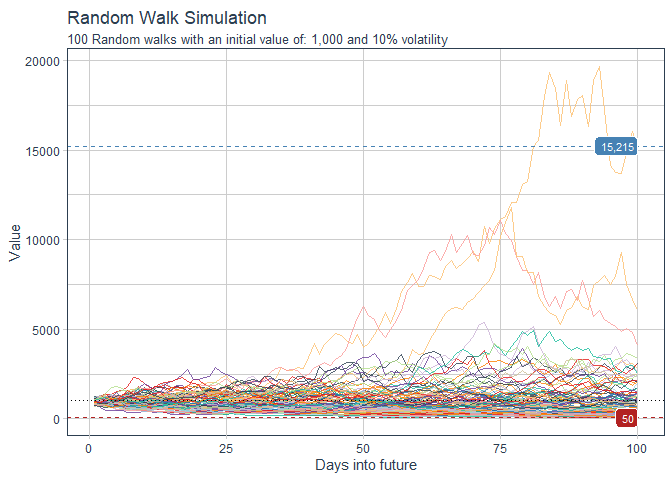
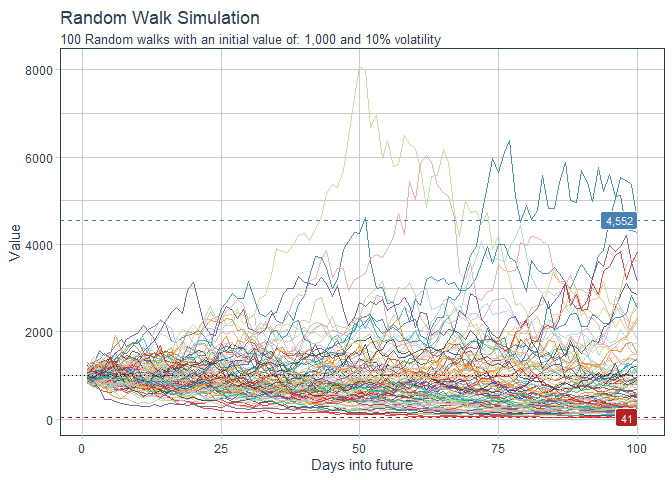
update vignettes

diff --git a/docs/articles/getting-started.html b/docs/articles/getting-started.html
@@ -91,7 +91,10 @@
   <div class="col-md-9 contents">
     <div class="page-header toc-ignore">
       <h1 data-toc-skip>Getting Started with healthyR.ts</h1>
+            <h3 class="subtitle">A Quick Introduction</h3>
+                        <h4 class="author">Steven P. Sanderson II, MPH</h4>
             
+            <h4 class="date">2020-12-06</h4>
       
       <small class="dont-index">Source: <a href="https://github.com/spsanderson/healthyR.ts/blob/master/vignettes/getting-started.Rmd"><code>vignettes/getting-started.Rmd</code></a></small>
       <div class="hidden name"><code>getting-started.Rmd</code></div>
@@ -100,8 +103,96 @@
 
     
     
+<p>Lets load in the libraries</p>
 <div class="sourceCode" id="cb1"><pre class="downlit sourceCode r">
-<code class="sourceCode R"><span class="kw"><a href="https://rdrr.io/r/base/library.html">library</a></span><span class="op">(</span><span class="va"><a href="https://github.com/spsanderson/healthyR.ts">healthyR.ts</a></span><span class="op">)</span></code></pre></div>
+<code class="sourceCode R"><span class="kw"><a href="https://rdrr.io/r/base/library.html">library</a></span><span class="op">(</span><span class="va"><a href="https://github.com/spsanderson/healthyR.ts">healthyR.ts</a></span><span class="op">)</span>
+<span class="kw"><a href="https://rdrr.io/r/base/library.html">library</a></span><span class="op">(</span><span class="va"><a href="http://ggplot2.tidyverse.org">ggplot2</a></span><span class="op">)</span>
+<span class="kw"><a href="https://rdrr.io/r/base/library.html">library</a></span><span class="op">(</span><span class="va"><a href="https://dplyr.tidyverse.org">dplyr</a></span><span class="op">)</span></code></pre></div>
+<p>Lets generage data and take a look</p>
+<div class="sourceCode" id="cb2"><pre class="downlit sourceCode r">
+<code class="sourceCode R"><span class="va">df</span> <span class="op">&lt;-</span> <span class="fu"><a href="../reference/ts_random_walk.html">ts_random_walk</a></span><span class="op">(</span><span class="op">)</span>
+<span class="fu"><a href="https://rdrr.io/r/utils/head.html">head</a></span><span class="op">(</span><span class="va">df</span><span class="op">)</span>
+<span class="co">#&gt; # A tibble: 6 x 4</span>
+<span class="co">#&gt;     run     x        y cum_y</span>
+<span class="co">#&gt;   &lt;dbl&gt; &lt;dbl&gt;    &lt;dbl&gt; &lt;dbl&gt;</span>
+<span class="co">#&gt; 1     1     1  0.0844  1084.</span>
+<span class="co">#&gt; 2     1     2  0.0106  1096.</span>
+<span class="co">#&gt; 3     1     3  0.0237  1122.</span>
+<span class="co">#&gt; 4     1     4  0.0809  1213.</span>
+<span class="co">#&gt; 5     1     5  0.0357  1256.</span>
+<span class="co">#&gt; 6     1     6 -0.00752 1246.</span>
+<span class="fu"><a href="https://tibble.tidyverse.org/reference/glimpse.html">glimpse</a></span><span class="op">(</span><span class="va">df</span><span class="op">)</span>
+<span class="co">#&gt; Rows: 10,000</span>
+<span class="co">#&gt; Columns: 4</span>
+<span class="co">#&gt; $ run   &lt;dbl&gt; 1, 1, 1, 1, 1, 1, 1, 1, 1, 1, 1, 1, 1, 1, 1, 1, 1, 1, 1, 1, 1...</span>
+<span class="co">#&gt; $ x     &lt;dbl&gt; 1, 2, 3, 4, 5, 6, 7, 8, 9, 10, 11, 12, 13, 14, 15, 16, 17, 18...</span>
+<span class="co">#&gt; $ y     &lt;dbl&gt; 0.084397624, 0.010623071, 0.023657801, 0.080917632, 0.0356955...</span>
+<span class="co">#&gt; $ cum_y &lt;dbl&gt; 1084.3976, 1095.9173, 1121.8442, 1212.6212, 1255.9064, 1246.4...</span></code></pre></div>
+<p>Now that the data has been generated, lets take a look at it.</p>
+<div class="sourceCode" id="cb3"><pre class="downlit sourceCode r">
+<code class="sourceCode R"><span class="va">df</span> <span class="op">%&gt;%</span>
+   <span class="fu"><a href="https://ggplot2.tidyverse.org/reference/ggplot.html">ggplot</a></span><span class="op">(</span>
+       mapping <span class="op">=</span> <span class="fu"><a href="https://ggplot2.tidyverse.org/reference/aes.html">aes</a></span><span class="op">(</span>
+           x <span class="op">=</span> <span class="va">x</span>
+           , y <span class="op">=</span> <span class="va">cum_y</span>
+           , color <span class="op">=</span> <span class="fu"><a href="https://rdrr.io/r/base/factor.html">factor</a></span><span class="op">(</span><span class="va">run</span><span class="op">)</span>
+           , group <span class="op">=</span> <span class="fu"><a href="https://rdrr.io/r/base/factor.html">factor</a></span><span class="op">(</span><span class="va">run</span><span class="op">)</span>
+        <span class="op">)</span>
+    <span class="op">)</span> <span class="op">+</span>
+    <span class="fu"><a href="https://ggplot2.tidyverse.org/reference/geom_path.html">geom_line</a></span><span class="op">(</span>alpha <span class="op">=</span> <span class="fl">0.8</span><span class="op">)</span> <span class="op">+</span>
+    <span class="fu"><a href="../reference/ts_random_walk_ggplot_layers.html">ts_random_walk_ggplot_layers</a></span><span class="op">(</span><span class="va">df</span><span class="op">)</span></code></pre></div>
+<p><img src="getting-started_files/figure-html/ts_random_walk_ggplot_layers-1.png" width="95%" style="display: block; margin: auto;"></p>
+<p>That is still pretty noisy, so lets see this in a different way. Lets clear this up a bit to make it easier to see the full range of the possible volatility of the random walks.</p>
+<div class="sourceCode" id="cb4"><pre class="downlit sourceCode r">
+<code class="sourceCode R"><span class="kw"><a href="https://rdrr.io/r/base/library.html">library</a></span><span class="op">(</span><span class="va"><a href="https://dplyr.tidyverse.org">dplyr</a></span><span class="op">)</span>
+<span class="kw"><a href="https://rdrr.io/r/base/library.html">library</a></span><span class="op">(</span><span class="va"><a href="http://ggplot2.tidyverse.org">ggplot2</a></span><span class="op">)</span>
+<span class="kw"><a href="https://rdrr.io/r/base/library.html">library</a></span><span class="op">(</span><span class="va"><a href="https://github.com/business-science/tidyquant">tidyquant</a></span><span class="op">)</span>
+
+<span class="va">df</span> <span class="op">%&gt;%</span>
+    <span class="fu"><a href="https://dplyr.tidyverse.org/reference/group_by.html">group_by</a></span><span class="op">(</span><span class="va">x</span><span class="op">)</span> <span class="op">%&gt;%</span>
+    <span class="fu"><a href="https://dplyr.tidyverse.org/reference/summarise.html">summarise</a></span><span class="op">(</span>
+        min_y <span class="op">=</span> <span class="fu"><a href="https://rdrr.io/r/base/Extremes.html">min</a></span><span class="op">(</span><span class="va">cum_y</span><span class="op">)</span>,
+        max_y <span class="op">=</span> <span class="fu"><a href="https://rdrr.io/r/base/Extremes.html">max</a></span><span class="op">(</span><span class="va">cum_y</span><span class="op">)</span>
+    <span class="op">)</span> <span class="op">%&gt;%</span>
+    <span class="fu"><a href="https://ggplot2.tidyverse.org/reference/ggplot.html">ggplot</a></span><span class="op">(</span>
+        <span class="fu"><a href="https://ggplot2.tidyverse.org/reference/aes.html">aes</a></span><span class="op">(</span>x <span class="op">=</span> <span class="va">x</span><span class="op">)</span>
+    <span class="op">)</span> <span class="op">+</span>
+    <span class="fu"><a href="https://ggplot2.tidyverse.org/reference/geom_path.html">geom_line</a></span><span class="op">(</span><span class="fu"><a href="https://ggplot2.tidyverse.org/reference/aes.html">aes</a></span><span class="op">(</span>y <span class="op">=</span> <span class="va">max_y</span><span class="op">)</span>, color <span class="op">=</span> <span class="st">"steelblue"</span><span class="op">)</span> <span class="op">+</span>
+    <span class="fu"><a href="https://ggplot2.tidyverse.org/reference/geom_path.html">geom_line</a></span><span class="op">(</span><span class="fu"><a href="https://ggplot2.tidyverse.org/reference/aes.html">aes</a></span><span class="op">(</span>y <span class="op">=</span> <span class="va">min_y</span><span class="op">)</span>, color <span class="op">=</span> <span class="st">"firebrick"</span><span class="op">)</span> <span class="op">+</span>
+    <span class="fu"><a href="https://ggplot2.tidyverse.org/reference/geom_ribbon.html">geom_ribbon</a></span><span class="op">(</span><span class="fu"><a href="https://ggplot2.tidyverse.org/reference/aes.html">aes</a></span><span class="op">(</span>ymin <span class="op">=</span> <span class="va">min_y</span>, ymax <span class="op">=</span> <span class="va">max_y</span><span class="op">)</span>, alpha <span class="op">=</span> <span class="fl">0.2</span><span class="op">)</span> <span class="op">+</span>
+    <span class="fu"><a href="../reference/ts_random_walk_ggplot_layers.html">ts_random_walk_ggplot_layers</a></span><span class="op">(</span><span class="va">df</span><span class="op">)</span></code></pre></div>
+<p><img src="getting-started_files/figure-html/unnamed-chunk-2-1.png" width="95%" style="display: block; margin: auto;"></p>
+<p>Lets look at volatility from several different percentages.</p>
+<div class="sourceCode" id="cb5"><pre class="downlit sourceCode r">
+<code class="sourceCode R">
+<span class="co"># Random Walk for volatility range 1-15%</span>
+<span class="va">df1</span> <span class="op">&lt;-</span> <span class="fu"><a href="../reference/ts_random_walk.html">ts_random_walk</a></span><span class="op">(</span>.sd <span class="op">=</span> <span class="fl">0.01</span><span class="op">)</span>
+<span class="va">df2</span> <span class="op">&lt;-</span> <span class="fu"><a href="../reference/ts_random_walk.html">ts_random_walk</a></span><span class="op">(</span>.sd <span class="op">=</span> <span class="fl">0.05</span><span class="op">)</span>
+<span class="va">df3</span> <span class="op">&lt;-</span> <span class="fu"><a href="../reference/ts_random_walk.html">ts_random_walk</a></span><span class="op">(</span>.sd <span class="op">=</span> <span class="fl">0.10</span><span class="op">)</span>
+<span class="va">df4</span> <span class="op">&lt;-</span> <span class="fu"><a href="../reference/ts_random_walk.html">ts_random_walk</a></span><span class="op">(</span>.sd <span class="op">=</span> <span class="fl">0.15</span><span class="op">)</span>
+
+<span class="co"># Merge data frames into one</span>
+<span class="va">df_merged</span> <span class="op">&lt;-</span> <span class="fu">dplyr</span><span class="fu">::</span><span class="fu"><a href="https://dplyr.tidyverse.org/reference/bind.html">bind_rows</a></span><span class="op">(</span>
+    <span class="va">df1</span> <span class="op">%&gt;%</span> <span class="fu"><a href="https://dplyr.tidyverse.org/reference/mutate.html">mutate</a></span><span class="op">(</span>ver <span class="op">=</span> <span class="st">"A) Vol 1%"</span><span class="op">)</span>,
+    <span class="va">df2</span> <span class="op">%&gt;%</span> <span class="fu"><a href="https://dplyr.tidyverse.org/reference/mutate.html">mutate</a></span><span class="op">(</span>ver <span class="op">=</span> <span class="st">"B) Vol 5%"</span><span class="op">)</span>,
+    <span class="va">df3</span> <span class="op">%&gt;%</span> <span class="fu"><a href="https://dplyr.tidyverse.org/reference/mutate.html">mutate</a></span><span class="op">(</span>ver <span class="op">=</span> <span class="st">"C) Vol 10%"</span><span class="op">)</span>,
+    <span class="va">df4</span> <span class="op">%&gt;%</span> <span class="fu"><a href="https://dplyr.tidyverse.org/reference/mutate.html">mutate</a></span><span class="op">(</span>ver <span class="op">=</span> <span class="st">"D) Vol 15%"</span><span class="op">)</span>
+<span class="op">)</span>
+
+<span class="co"># Plot range between minimum and maximum values</span>
+<span class="va">df_merged</span> <span class="op">%&gt;%</span>
+    <span class="fu"><a href="https://ggplot2.tidyverse.org/reference/ggplot.html">ggplot</a></span><span class="op">(</span><span class="fu"><a href="https://ggplot2.tidyverse.org/reference/aes.html">aes</a></span><span class="op">(</span>
+        x <span class="op">=</span> <span class="va">x</span>, y <span class="op">=</span> <span class="va">cum_y</span>,
+        color <span class="op">=</span> <span class="fu"><a href="https://rdrr.io/r/base/factor.html">factor</a></span><span class="op">(</span><span class="va">run</span><span class="op">)</span>, group <span class="op">=</span> <span class="fu"><a href="https://rdrr.io/r/base/factor.html">factor</a></span><span class="op">(</span><span class="va">run</span><span class="op">)</span>
+    <span class="op">)</span><span class="op">)</span> <span class="op">+</span>
+    <span class="fu"><a href="https://ggplot2.tidyverse.org/reference/geom_path.html">geom_line</a></span><span class="op">(</span>alpha <span class="op">=</span> <span class="fl">0.8</span><span class="op">)</span> <span class="op">+</span>
+    <span class="fu"><a href="https://ggplot2.tidyverse.org/reference/labs.html">labs</a></span><span class="op">(</span>title <span class="op">=</span> <span class="st">""</span>, x <span class="op">=</span> <span class="st">""</span>, y <span class="op">=</span> <span class="st">""</span><span class="op">)</span> <span class="op">+</span>
+    <span class="fu"><a href="https://ggplot2.tidyverse.org/reference/facet_wrap.html">facet_wrap</a></span><span class="op">(</span><span class="op">~</span><span class="va">ver</span>, scales <span class="op">=</span> <span class="st">"free"</span><span class="op">)</span> <span class="op">+</span>
+    <span class="fu"><a href="https://ggplot2.tidyverse.org/reference/scale_continuous.html">scale_y_continuous</a></span><span class="op">(</span>labels <span class="op">=</span> <span class="fu">scales</span><span class="fu">::</span><span class="va"><a href="https://scales.r-lib.org//reference/label_number.html">comma</a></span><span class="op">)</span> <span class="op">+</span>
+    <span class="fu"><a href="https://rdrr.io/pkg/tidyquant/man/scale_manual.html">scale_colour_tq</a></span><span class="op">(</span><span class="op">)</span> <span class="op">+</span>
+    <span class="fu"><a href="https://rdrr.io/pkg/tidyquant/man/theme_tq.html">theme_tq</a></span><span class="op">(</span><span class="op">)</span> <span class="op">+</span>
+    <span class="fu"><a href="https://ggplot2.tidyverse.org/reference/theme.html">theme</a></span><span class="op">(</span>legend.position <span class="op">=</span> <span class="st">"none"</span><span class="op">)</span></code></pre></div>
+<p><img src="getting-started_files/figure-html/unnamed-chunk-3-1.png" width="95%" style="display: block; margin: auto;"></p>
   </div>
 
   <div class="col-md-3 hidden-xs hidden-sm" id="pkgdown-sidebar">

diff --git a/docs/index.html b/docs/index.html
@@ -109,7 +109,7 @@
 <div id="example" class="section level2">
 <h2 class="hasAnchor">
 <a href="#example" class="anchor"></a>Example</h2>
-<p>This is a basic example which shows you how to solve a common problem:</p>
+<p>This is a basic example which shows you how to generate random walk data.</p>
 <div class="sourceCode" id="cb3"><pre class="downlit sourceCode r">
 <code class="sourceCode R"><span class="kw"><a href="https://rdrr.io/r/base/library.html">library</a></span><span class="op">(</span><span class="va"><a href="https://github.com/spsanderson/healthyR.ts">healthyR.ts</a></span><span class="op">)</span>
 <span class="kw"><a href="https://rdrr.io/r/base/library.html">library</a></span><span class="op">(</span><span class="va"><a href="http://ggplot2.tidyverse.org">ggplot2</a></span><span class="op">)</span>
@@ -118,15 +118,15 @@
 
 <span class="fu"><a href="https://rdrr.io/r/utils/head.html">head</a></span><span class="op">(</span><span class="va">df</span><span class="op">)</span>
 <span class="co">#&gt; # A tibble: 6 x 4</span>
-<span class="co">#&gt;     run     x        y cum_y</span>
-<span class="co">#&gt;   &lt;dbl&gt; &lt;dbl&gt;    &lt;dbl&gt; &lt;dbl&gt;</span>
-<span class="co">#&gt; 1     1     1 -0.135    865.</span>
-<span class="co">#&gt; 2     1     2 -0.00989  857.</span>
-<span class="co">#&gt; 3     1     3 -0.110    762.</span>
-<span class="co">#&gt; 4     1     4  0.165    888.</span>
-<span class="co">#&gt; 5     1     5  0.0564   938.</span>
-<span class="co">#&gt; 6     1     6  0.0581   993.</span></code></pre></div>
-<p>Now that the data hs been generated, lets take a look at it.</p>
+<span class="co">#&gt;     run     x       y cum_y</span>
+<span class="co">#&gt;   &lt;dbl&gt; &lt;dbl&gt;   &lt;dbl&gt; &lt;dbl&gt;</span>
+<span class="co">#&gt; 1     1     1 -0.0747  925.</span>
+<span class="co">#&gt; 2     1     2 -0.107   826.</span>
+<span class="co">#&gt; 3     1     3  0.0267  848.</span>
+<span class="co">#&gt; 4     1     4 -0.0332  820.</span>
+<span class="co">#&gt; 5     1     5  0.0106  829.</span>
+<span class="co">#&gt; 6     1     6  0.0199  845.</span></code></pre></div>
+<p>Now that the data has been generated, lets take a look at it.</p>
 <div class="sourceCode" id="cb4"><pre class="downlit sourceCode r">
 <code class="sourceCode R"><span class="va">df</span> <span class="op">%&gt;%</span>
    <span class="fu"><a href="https://ggplot2.tidyverse.org/reference/ggplot.html">ggplot</a></span><span class="op">(</span>
@@ -138,11 +138,27 @@
         <span class="op">)</span>
     <span class="op">)</span> <span class="op">+</span>
     <span class="fu"><a href="https://ggplot2.tidyverse.org/reference/geom_path.html">geom_line</a></span><span class="op">(</span>alpha <span class="op">=</span> <span class="fl">0.8</span><span class="op">)</span> <span class="op">+</span>
-    <span class="fu"><a href="reference/ts_random_walk_ggplot_layers.html">ts_random_walk_ggplot_layers</a></span><span class="op">(</span><span class="va">df</span><span class="op">)</span>
-<span class="co">#&gt; Registered S3 method overwritten by 'quantmod':</span>
-<span class="co">#&gt;   method            from</span>
-<span class="co">#&gt;   as.zoo.data.frame zoo</span></code></pre></div>
+    <span class="fu"><a href="reference/ts_random_walk_ggplot_layers.html">ts_random_walk_ggplot_layers</a></span><span class="op">(</span><span class="va">df</span><span class="op">)</span></code></pre></div>
 <p><img src="reference/figures/README-ts_random_walk_ggplot_layers-1.png" width="100%"></p>
+<p>That is still pretty noisy, so lets see this in a different way. Lets clear this up a bit to make it easier to see the full range of the possible volatility of the random walks.</p>
+<div class="sourceCode" id="cb5"><pre class="downlit sourceCode r">
+<code class="sourceCode R"><span class="kw"><a href="https://rdrr.io/r/base/library.html">library</a></span><span class="op">(</span><span class="va"><a href="https://dplyr.tidyverse.org">dplyr</a></span><span class="op">)</span>
+<span class="kw"><a href="https://rdrr.io/r/base/library.html">library</a></span><span class="op">(</span><span class="va"><a href="http://ggplot2.tidyverse.org">ggplot2</a></span><span class="op">)</span>
+
+<span class="va">df</span> <span class="op">%&gt;%</span>
+    <span class="fu"><a href="https://dplyr.tidyverse.org/reference/group_by.html">group_by</a></span><span class="op">(</span><span class="va">x</span><span class="op">)</span> <span class="op">%&gt;%</span>
+    <span class="fu"><a href="https://dplyr.tidyverse.org/reference/summarise.html">summarise</a></span><span class="op">(</span>
+        min_y <span class="op">=</span> <span class="fu"><a href="https://rdrr.io/r/base/Extremes.html">min</a></span><span class="op">(</span><span class="va">cum_y</span><span class="op">)</span>,
+        max_y <span class="op">=</span> <span class="fu"><a href="https://rdrr.io/r/base/Extremes.html">max</a></span><span class="op">(</span><span class="va">cum_y</span><span class="op">)</span>
+    <span class="op">)</span> <span class="op">%&gt;%</span>
+    <span class="fu"><a href="https://ggplot2.tidyverse.org/reference/ggplot.html">ggplot</a></span><span class="op">(</span>
+        <span class="fu"><a href="https://ggplot2.tidyverse.org/reference/aes.html">aes</a></span><span class="op">(</span>x <span class="op">=</span> <span class="va">x</span><span class="op">)</span>
+    <span class="op">)</span> <span class="op">+</span>
+    <span class="fu"><a href="https://ggplot2.tidyverse.org/reference/geom_path.html">geom_line</a></span><span class="op">(</span><span class="fu"><a href="https://ggplot2.tidyverse.org/reference/aes.html">aes</a></span><span class="op">(</span>y <span class="op">=</span> <span class="va">max_y</span><span class="op">)</span>, color <span class="op">=</span> <span class="st">"steelblue"</span><span class="op">)</span> <span class="op">+</span>
+    <span class="fu"><a href="https://ggplot2.tidyverse.org/reference/geom_path.html">geom_line</a></span><span class="op">(</span><span class="fu"><a href="https://ggplot2.tidyverse.org/reference/aes.html">aes</a></span><span class="op">(</span>y <span class="op">=</span> <span class="va">min_y</span><span class="op">)</span>, color <span class="op">=</span> <span class="st">"firebrick"</span><span class="op">)</span> <span class="op">+</span>
+    <span class="fu"><a href="https://ggplot2.tidyverse.org/reference/geom_ribbon.html">geom_ribbon</a></span><span class="op">(</span><span class="fu"><a href="https://ggplot2.tidyverse.org/reference/aes.html">aes</a></span><span class="op">(</span>ymin <span class="op">=</span> <span class="va">min_y</span>, ymax <span class="op">=</span> <span class="va">max_y</span><span class="op">)</span>, alpha <span class="op">=</span> <span class="fl">0.2</span><span class="op">)</span> <span class="op">+</span>
+    <span class="fu"><a href="reference/ts_random_walk_ggplot_layers.html">ts_random_walk_ggplot_layers</a></span><span class="op">(</span><span class="va">df</span><span class="op">)</span></code></pre></div>
+<p><img src="reference/figures/README-unnamed-chunk-2-1.png" width="100%"></p>
 </div>
 </div>
   </div>

diff --git a/README.md b/README.md
@@ -30,7 +30,8 @@ devtools::install_github("spsanderson/healthyR.ts")
 
 ## Example
 
-This is a basic example which shows you how to solve a common problem:
+This is a basic example which shows you how to generate random walk
+data.
 
 ``` r
 library(healthyR.ts)
@@ -40,17 +41,17 @@ df <- ts_random_walk()
 
 head(df)
 #> # A tibble: 6 x 4
-#>     run     x        y cum_y
-#>   <dbl> <dbl>    <dbl> <dbl>
-#> 1     1     1 -0.135    865.
-#> 2     1     2 -0.00989  857.
-#> 3     1     3 -0.110    762.
-#> 4     1     4  0.165    888.
-#> 5     1     5  0.0564   938.
-#> 6     1     6  0.0581   993.
+#>     run     x       y cum_y
+#>   <dbl> <dbl>   <dbl> <dbl>
+#> 1     1     1 -0.0747  925.
+#> 2     1     2 -0.107   826.
+#> 3     1     3  0.0267  848.
+#> 4     1     4 -0.0332  820.
+#> 5     1     5  0.0106  829.
+#> 6     1     6  0.0199  845.
 ```
 
-Now that the data hs been generated, lets take a look at it.
+Now that the data has been generated, lets take a look at it.
 
 ``` r
 df %>%
@@ -64,9 +65,31 @@ df %>%
     ) +
     geom_line(alpha = 0.8) +
     ts_random_walk_ggplot_layers(df)
-#> Registered S3 method overwritten by 'quantmod':
-#>   method            from
-#>   as.zoo.data.frame zoo
 ```
 
 <img src="man/figures/README-ts_random_walk_ggplot_layers-1.png" width="100%" />
+
+That is still pretty noisy, so lets see this in a different way. Lets
+clear this up a bit to make it easier to see the full range of the
+possible volatility of the random walks.
+
+``` r
+library(dplyr)
+library(ggplot2)
+
+df %>%
+    group_by(x) %>%
+    summarise(
+        min_y = min(cum_y),
+        max_y = max(cum_y)
+    ) %>%
+    ggplot(
+        aes(x = x)
+    ) +
+    geom_line(aes(y = max_y), color = "steelblue") +
+    geom_line(aes(y = min_y), color = "firebrick") +
+    geom_ribbon(aes(ymin = min_y, ymax = max_y), alpha = 0.2) +
+    ts_random_walk_ggplot_layers(df)
+```
+
+<img src="man/figures/README-unnamed-chunk-2-1.png" width="100%" />
